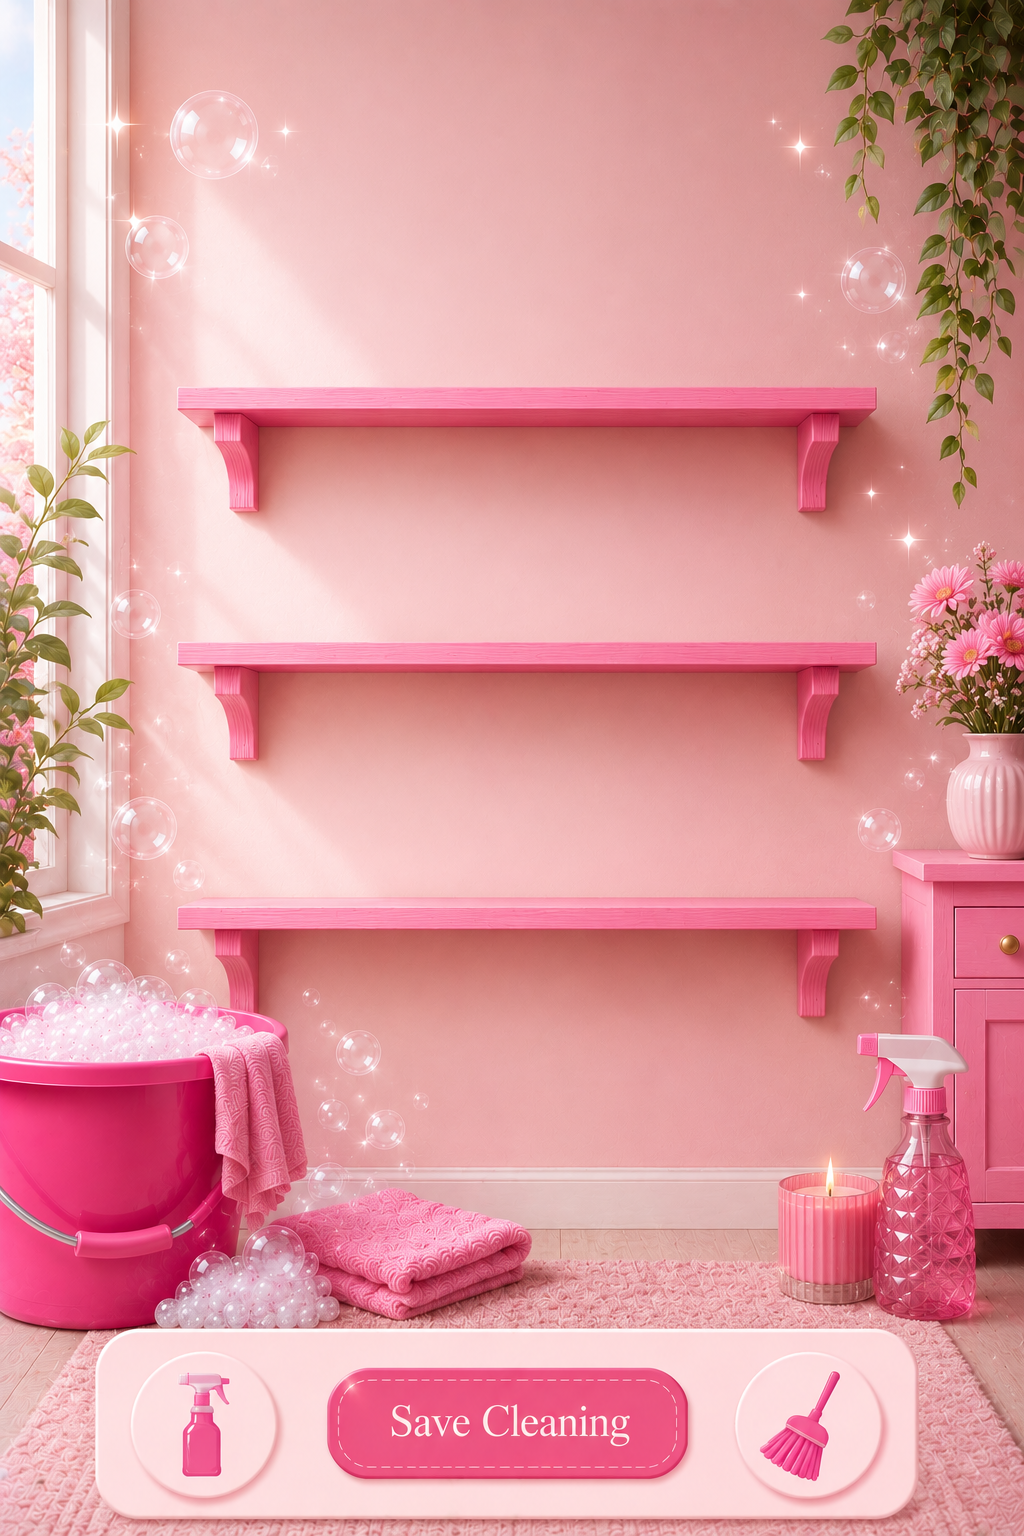
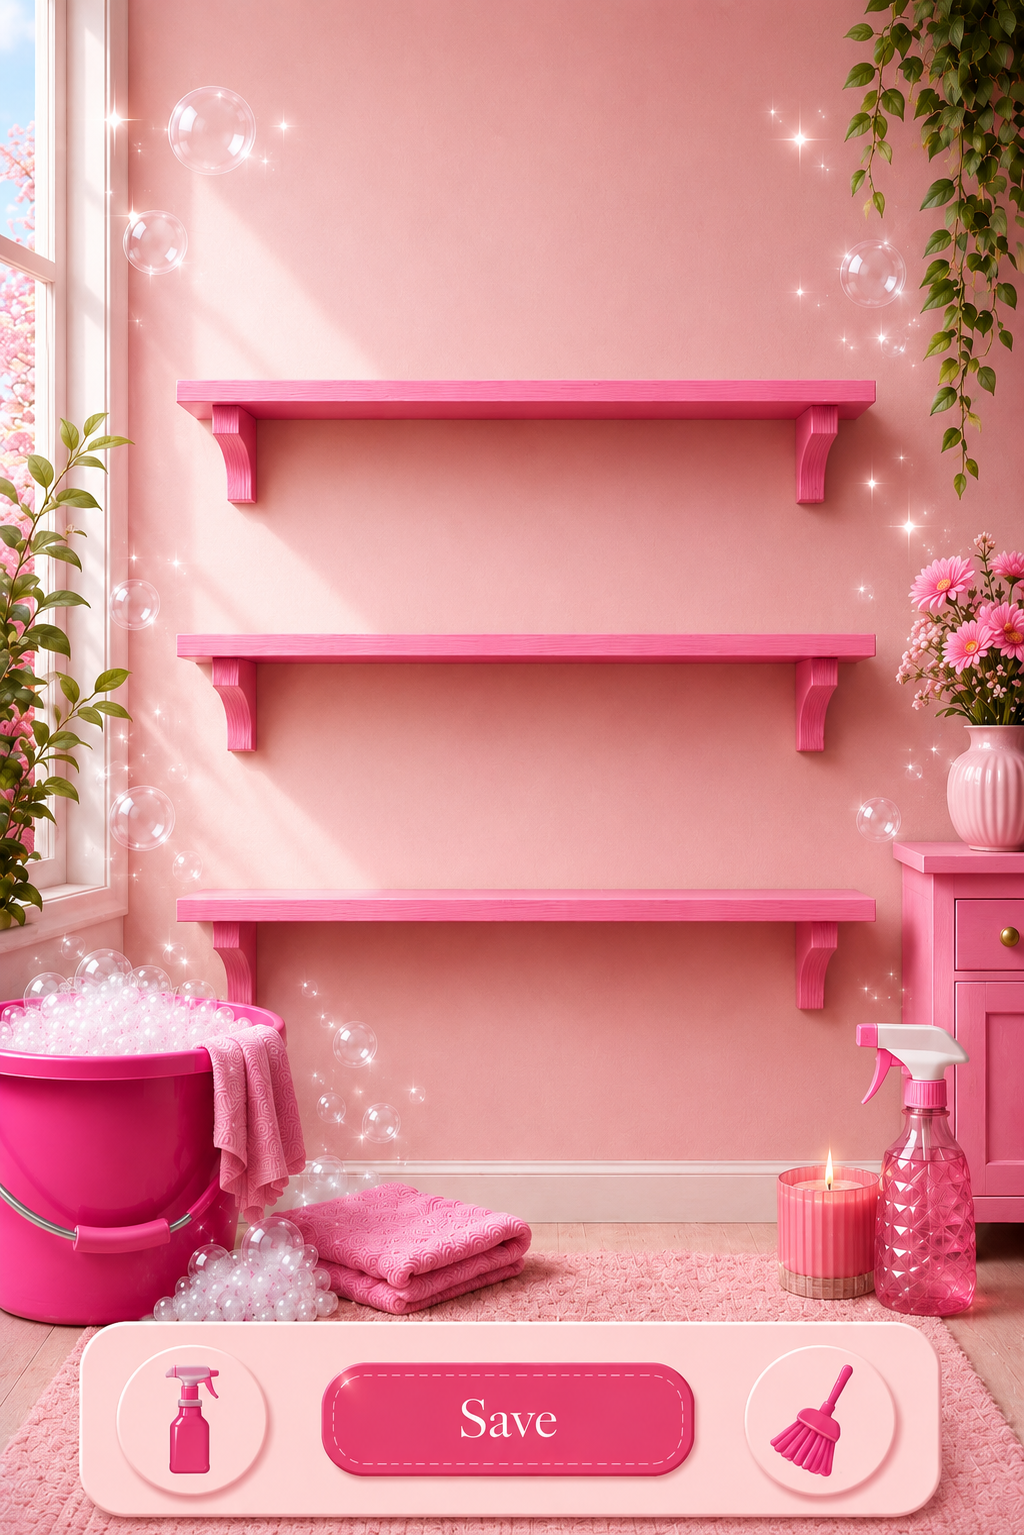
Replace wardrobe/generate background with new empty-shelves image
Swaps cleaning-shelves-bg.png for the new 1024x1535 pink empty-shelf
image and recalibrates LM fractions to match:
  shelf 1: 28.0%  (was 26.7%)
  shelf 2: 50.0%  (was 43.3%)
  shelf 3: 71.3%  (was 60.2%)
  doorL 0.10, doorR 0.90 (shelves span near full width)
  saveAreaY/barY nudged down to match lower shelf 3 position

diff --git a/artifacts/outfit-generator/src/pages/wardrobe.tsx b/artifacts/outfit-generator/src/pages/wardrobe.tsx
@@ -64,17 +64,17 @@ const NAV_H = 90;
 // shelfY = exact top-surface of the shelf board (items rest here, bottom-anchored).
 // Row 4 occupies the floor/accessory area below the lowest shelf.
 const LM = {
-  doorL: 0.14,   // left usable boundary (clear of window glow, calibrated for iPad+phone)
-  doorR: 0.88,   // right usable boundary (clear of right-side plant at shelf 1 level)
+  doorL: 0.10,   // left usable boundary (shelves span near full width, clear of window/bucket)
+  doorR: 0.90,   // right usable boundary (clear of right-side cabinet)
 
   rows: [
-    { sectionTop: 0.13, shelfY: 0.267, btnCY: 0.20 },  // OUTFITS    (shelf 1 surface at 26.7%)
-    { sectionTop: 0.33, shelfY: 0.433, btnCY: 0.38 },  // BEAUTY     (shelf 2 surface at 43.3%)
-    { sectionTop: 0.47, shelfY: 0.602, btnCY: 0.54 },  // TOILETRIES (shelf 3 surface at 60.2%)
-    { sectionTop: 0.65, shelfY: 0.760, btnCY: 0.70 },  // ESSENTIALS (below all shelves)
+    { sectionTop: 0.13, shelfY: 0.280, btnCY: 0.20 },  // OUTFITS    (shelf 1 surface at 28.0%)
+    { sectionTop: 0.30, shelfY: 0.500, btnCY: 0.40 },  // BEAUTY     (shelf 2 surface at 50.0%)
+    { sectionTop: 0.52, shelfY: 0.713, btnCY: 0.61 },  // TOILETRIES (shelf 3 surface at 71.3%)
+    { sectionTop: 0.73, shelfY: 0.870, btnCY: 0.80 },  // ESSENTIALS (below all shelves)
   ],
 
-  saveAreaY: 0.85,
+  saveAreaY: 0.88,
 } as const;
 
 // ── useImageRect ─────────────────────────────────────────────────────────────

diff --git a/artifacts/outfit-generator/src/pages/generate.tsx b/artifacts/outfit-generator/src/pages/generate.tsx
@@ -29,15 +29,15 @@ const NAV_H = 90;
 const PINK  = "#e8649a";
 
 const LM = {
-  doorL: 0.14,   // left usable boundary (clear of window glow, calibrated for iPad+phone)
-  doorR: 0.88,   // right usable boundary (clear of right-side plant at shelf 1 level)
+  doorL: 0.10,   // left usable boundary (shelves span near full width, clear of window/bucket)
+  doorR: 0.90,   // right usable boundary (clear of right-side cabinet)
   rows: [
-    { sectionTop: 0.13, shelfY: 0.267, btnCY: 0.20 },  // OUTFITS    (shelf 1 surface at 26.7%)
-    { sectionTop: 0.33, shelfY: 0.433, btnCY: 0.38 },  // BEAUTY     (shelf 2 surface at 43.3%)
-    { sectionTop: 0.47, shelfY: 0.602, btnCY: 0.54 },  // TOILETRIES (shelf 3 surface at 60.2%)
-    { sectionTop: 0.65, shelfY: 0.760, btnCY: 0.70 },  // ESSENTIALS (below all shelves)
+    { sectionTop: 0.13, shelfY: 0.280, btnCY: 0.20 },  // OUTFITS    (shelf 1 surface at 28.0%)
+    { sectionTop: 0.30, shelfY: 0.500, btnCY: 0.40 },  // BEAUTY     (shelf 2 surface at 50.0%)
+    { sectionTop: 0.52, shelfY: 0.713, btnCY: 0.61 },  // TOILETRIES (shelf 3 surface at 71.3%)
+    { sectionTop: 0.73, shelfY: 0.870, btnCY: 0.80 },  // ESSENTIALS (below all shelves)
   ],
-  barY:   0.820,
+  barY:   0.840,
   barBot: 1.000,
 } as const;
 
